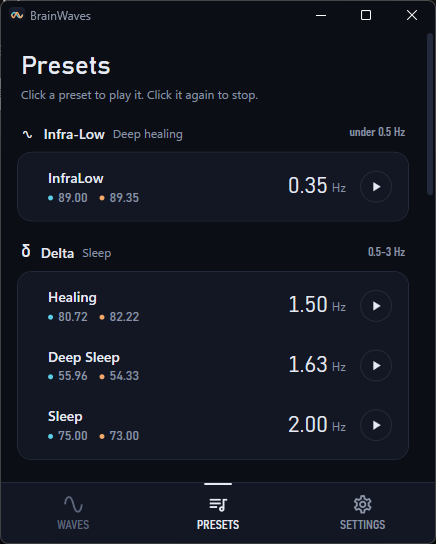
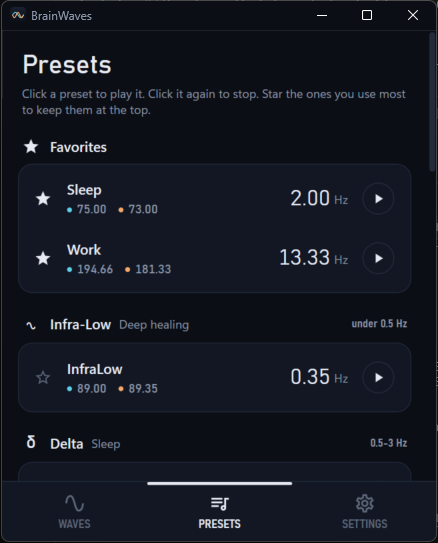
docs: README를 첫 화면에서 바로 읽히는 소개로 개편

diff --git a/README.md b/README.md
@@ -1,185 +1,86 @@
-# 🧠 BrainWaves - 모던 바이노럴 비트 생성기
+<h1 align="center">BrainWaves</h1>
 
 <p align="center">
-  <img src="Images/program_waves.png" width="300" alt="BrainWaves 메인 화면"/>
+  <b>왼쪽 귀에 75 Hz, 오른쪽 귀에 73 Hz를 들려주면 머릿속에서 1초에 두 번씩 커졌다 작아지는 소리가 들립니다.</b><br>
+  이 소리를 바이노럴 비트라고 합니다. BrainWaves는 바이노럴 비트를 들려주는 Windows 앱입니다.<br>
+  수면, 명상, 집중용 프리셋이 들어 있어 헤드폰을 쓰고 하나만 누르면 됩니다.
 </p>
 
 <p align="center">
-  <b>과학적으로 설계된 바이노럴 비트로 당신의 정신 상태를 변화시키세요</b>
+  <img src="Images/program_waves.png" width="320" alt="Waves 화면. 왼쪽 75 Hz와 오른쪽 73 Hz로 만든 2.00 Hz 델타 대역 비트">
 </p>
 
 <p align="center">
-  <a href="#주요-기능">주요 기능</a> •
-  <a href="#스크린샷">스크린샷</a> •
-  <a href="#설치-방법">설치 방법</a> •
-  <a href="#사용법">사용법</a> •
-  <a href="#프리셋">프리셋</a> •
-  <a href="#기술-스택">기술 스택</a>
+  <a href="https://github.com/siakun/BrainWavesWPF/releases/latest"><img src="https://img.shields.io/github/v/release/siakun/BrainWavesWPF?style=for-the-badge&label=Windows%EC%9A%A9%20%EB%82%B4%EB%A0%A4%EB%B0%9B%EA%B8%B0&color=5ccfe6" alt="Windows용 내려받기"></a>
 </p>
 
----
+## 시작하기
 
-## 🌟 개요
+1. [최신 릴리스](https://github.com/siakun/BrainWavesWPF/releases/latest)에서 `BrainWaves-Setup-<버전>-x64.exe`를 받아 실행합니다. 설치가 끝나면 시작 메뉴에 등록됩니다.
+2. 헤드폰이나 이어폰을 씁니다. 두 귀에 서로 다른 소리가 따로 들어가야 바이노럴 비트가 생기므로 스피커로는 들을 수 없습니다.
+3. Presets 탭에서 프리셋을 누릅니다. 다시 누르면 멈춥니다.
 
-BrainWaves는 다양한 정신 상태를 달성하는 데 도움을 주는 바이노럴 비트를 생성하는 모던한 Windows 데스크톱 애플리케이션입니다. 각 귀에 약간 다른 주파수를 재생하여 뇌파 패턴에 영향을 줄 수 있는 청각적 착각을 만들어냅니다.
+## 할 수 있는 것
 
-## ✨ 주요 기능
+- **대역별 프리셋**
 
-### 🎵 **정밀한 주파수 제어**
-- 좌우 채널 독립적인 주파수 조절 (0.01Hz 정밀도, 버튼을 누르고 있으면 계속 조절)
-- 실시간 스테레오 사인파 생성
-- 각 채널별 개별 볼륨 조절과 전체 음량 조절. 재생 중에 바꿔도 바로 들리고, 전체 음량은 앱을 다시 켜도 유지됩니다
+  Deep Sleep부터 Meditation, Focus, Cognitive tasks까지 프리셋이 뇌파 대역(δ, θ, α, β, γ)별로 묶여 있습니다. 자주 듣는 프리셋은 별을 눌러 목록 맨 위 Favorites에 모아 둡니다.
 
-### 🧘 **13가지 과학적으로 설계된 프리셋**
-- **수면 & 휴식**: 깊은 휴식을 위한 델타파와 세타파
-- **집중 & 생산성**: 향상된 집중력을 위한 베타파
-- **창의성 & 학습**: 창의적 사고를 위한 알파파
-- **최고 성능**: 인지 능력 향상을 위한 감마파
-- 별표를 누른 프리셋은 목록 맨 위 **Favorites**에 모아 보여 주고, 앱을 다시 켜도 유지됩니다
+- **직접 맞추기**
 
-### 🎨 **밤에 켜 두기 편한 화면**
-- 어둡고 차분한 테마, 제목 표시줄까지 같은 색
-- 왼쪽 채널은 청록, 오른쪽 채널은 호박색으로 화면 전체에서 같은 색으로 표시
-- 뇌파 대역을 그리스 문자(δ, θ, α, β, γ)로 표시하고 프리셋을 대역별로 묶음
-- 재생 중에는 두 채널의 파형이 서로 다른 속도로 흐름 (Windows에서 애니메이션을 끄면 멈춤)
+  Waves 탭에서 왼쪽과 오른쪽 주파수를 0.01 Hz 단위로, 채널 음량과 전체 음량을 따로 맞춥니다. 재생 중에 바꿔도 바로 들립니다. 맞춘 비트가 어느 대역인지는 화면 위쪽에 보입니다. 전체 음량은 다음에 켤 때도 그대로입니다.
 
-### 🔄 **자동 업데이트**
-- 새 버전을 백그라운드에서 받아 두고 앱을 닫을 때 설치
-- 원하는 버전을 골라 설치하거나 이전 버전으로 되돌리기
-- 베타 버전 수신 선택
+- **알아서 하는 업데이트**
 
-## 📸 스크린샷
+  새 버전이 나오면 사용하는 동안 받아 두었다가 앱을 닫을 때 설치합니다. 문제가 생긴 버전은 Settings 탭에서 이전 버전으로 되돌릴 수 있습니다.
+
+- **밤에 켜 두기 편한 화면**
+
+  밝은 면이 눈에 띄지 않도록 제목 표시줄까지 어두운 색으로 맞췄습니다. 왼쪽 채널은 어디서나 청록색, 오른쪽 채널은 주황색으로 표시합니다. 재생하는 동안에는 두 채널의 파형이 서로 다른 속도로 흐릅니다.
+
+## 화면
 
 <table>
   <tr>
     <td align="center">
-      <img src="Images/program_waves.png" width="250"/><br>
-      <b>웨이브 컨트롤</b><br>
-      <sub>수동으로 주파수 미세 조정</sub>
+      <img src="Images/program_presets.png" width="300" alt="Presets 화면"><br>
+      대역별로 묶은 프리셋과 맨 위의 Favorites
     </td>
     <td align="center">
-      <img src="Images/program_presets.png" width="250"/><br>
-      <b>프리셋 라이브러리</b><br>
-      <sub>최적화된 설정에 빠르게 접근</sub>
-    </td>
-    <td align="center">
-      <img src="Images/program_settings.png" width="250"/><br>
-      <b>설정</b><br>
-      <sub>업데이트와 앱 정보</sub>
+      <img src="Images/program_settings.png" width="300" alt="Settings 화면"><br>
+      자동 업데이트와 버전 선택
     </td>
   </tr>
 </table>
 
-## 🧠 프리셋
+## 설치와 업데이트
 
-| 프리셋 | 파동 유형 | 주파수 (Hz) | 목적 |
-|--------|-----------|----------------|---------|
-| 🌙 **깊은 수면** | 델타 | 1.63 | 가장 깊은 수면 단계 |
-| 😴 **수면** | 델타 | 2.00 | 일반적인 수면 유도 |
-| 🧘 **명상** | 세타 | 4.50 | 깊은 명상 |
-| 🌊 **휴식** | 세타 | 4.56 | 스트레스 해소 |
-| 👁 **시각화** | 알파 | 8.67 | 정신적 이미지화 |
-| 🎯 **집중** | 베타 | 29.00 | 강렬한 집중력 |
-| 🎨 **창의성** | 베타 | 28.13 | 창의적 사고 |
-| 💡 **인지** | 감마 | 40.00 | 최고의 정신 성능 |
+- 설치하지 않고 사용하려면 `BrainWaves-Portable-<버전>-x64.zip`을 받아 압축을 풀고 `BrainWaves.exe`를 실행합니다. 포터블 판도 똑같이 스스로 업데이트합니다.
+- Windows 10 이상 64비트에서 돌아갑니다. 실행에 필요한 .NET 런타임이 들어 있어 따로 설치하지 않아도 됩니다.
+- Settings 탭에서 자동 업데이트를 끄거나 **Install another version**으로 원하는 버전을 골라 설치할 수 있습니다. 최신이 아닌 버전을 고르면 다시 최신으로 올라가지 않도록 자동 업데이트가 꺼집니다. 베타 버전까지 받으려면 **Beta versions**를 켭니다.
+- 0.1.x에는 업데이트 기능이 없습니다. 그 버전을 사용하고 있다면 한 번만 위 설치 파일을 새로 받아야 합니다.
 
-## 💻 시스템 요구사항
+## 주의
 
-- **OS**: Windows 10 이상 (64비트)
-- **런타임**: 설치 파일에 포함되어 있어 따로 설치하지 않아도 됩니다
-- **오디오**: 스테레오 헤드폰 또는 이어폰 (바이노럴 효과를 위해 필수)
-- **RAM**: 최소 4GB
-- **저장 공간**: 300MB 여유 공간
+- 의료 기기가 아닙니다. 바이노럴 비트를 듣고 느끼는 효과는 사람마다 다릅니다. 건강 문제는 의료 전문가와 상의해 주세요.
+- 뇌전증(간질)이나 발작을 겪은 적이 있다면 사용하면 안 됩니다.
+- 운전하거나 기계를 다루는 동안에는 사용하면 안 됩니다.
+- 음량은 낮게 시작해 편안한 만큼만 올려 주세요. 불편하면 바로 멈춰 주세요.
 
-## 🚀 설치 방법
+## 직접 빌드하기
 
-### 옵션 1: 릴리스 다운로드
-1. [Releases](https://github.com/siakun/BrainWavesWPF/releases) 페이지로 이동
-2. 최신 릴리스의 `BrainWaves-Setup-<버전>-x64.exe`를 받아 실행
-3. 설치가 끝나면 BrainWaves가 시작 메뉴에 등록되고, 이후 버전은 앱이 스스로 업데이트합니다
+.NET 8 SDK가 필요합니다.
 
-설치하지 않고 쓰려면 `BrainWaves-Portable-<버전>-x64.zip`을 받아 압축을 풀고 `BrainWaves.exe`를 실행합니다. 포터블 판도 자동 업데이트를 지원합니다.
-
-0.1.x 버전은 업데이트 기능이 없는 단일 실행 파일이라 새 버전으로 넘어가지 않습니다. 한 번만 위 방법으로 새로 받으면 그 뒤로는 자동으로 업데이트됩니다.
-
-### 옵션 2: 소스에서 빌드
 ```bash
-# 저장소 클론
 git clone https://github.com/siakun/BrainWavesWPF.git
 cd BrainWavesWPF
-
-# 프로젝트 빌드
-dotnet build
-
-# 애플리케이션 실행
 dotnet run --project BrainWaves/BrainWaves/BrainWaves.csproj
 ```
 
-## 📖 사용법
+## 라이선스와 문의
 
-### 시작하기
-1. **스테레오 헤드폰 착용** - 바이노럴 비트 효과에 필수
-2. **방법 선택**:
-   - **빠른 시작**: Presets 탭에서 프리셋 선택. 자주 쓰는 프리셋은 별표를 눌러 맨 위에 고정
-   - **사용자 정의**: Waves 탭에서 수동으로 주파수 조정
-3. Waves 탭 위쪽의 **재생 버튼**을 눌러 세션 시작
-4. 필요에 따라 게인 슬라이더로 **볼륨 조정**
+GNU Affero General Public License v3.0을 따릅니다. 전문은 [LICENSE](LICENSE)에 있습니다. 앱이 사용하는 오픈소스 라이브러리는 Settings 탭에서 볼 수 있습니다.
 
-### 업데이트
-- 자동 업데이트를 켜 두면 새 버전을 받아 두었다가 앱을 닫을 때 설치합니다. 창 아래에 알림이 뜨면 **Restart now**로 바로 설치할 수도 있습니다
-- Settings 탭의 **Install another version**에서 특정 버전을 골라 설치하거나 이전 버전으로 되돌릴 수 있습니다. 최신이 아닌 버전을 고르면 자동 업데이트가 꺼집니다
-- 베타 버전을 받으려면 Settings 탭에서 **Beta versions**를 켭니다
+버그나 제안은 [Issues](https://github.com/siakun/BrainWavesWPF/issues)에 남겨 주세요. Pull Request도 환영합니다.
 
-### 프로 팁
-- 🎧 최상의 결과를 위해 좋은 품질의 헤드폰 사용
-- ⏱ 일반적으로 15-30분 세션이 가장 효과적
-- 🌙 수면을 위해서는 잠들기 30분 전부터 재생
-- 🎯 집중을 위해서는 작업이나 공부 중에 사용
-
-## ⚠ 안전 주의사항
-
-- **운전 중 사용 금지** 또는 기계 조작 시
-- **간질이나 발작 장애가 있는 경우 사용 금지**
-- 불편함을 느끼면 **사용 중단**
-- **의료 기기가 아님** - 의학적 상태에 대해서는 의료 전문가와 상담
-
-## 🛠 기술 스택
-
-- **프레임워크**: WPF with .NET 8.0
-- **아키텍처**: MVVM 패턴
-- **UI 라이브러리**: MaterialDesignThemes (5.2.2)
-- **MVVM 프레임워크**: CommunityToolkit.Mvvm (8.4.0)
-- **오디오**: NAudio로 좌우 채널 사인파를 실시간 생성
-- **배포와 업데이트**: Velopack 설치 패키지, [Siakun.AutoUpdate](https://github.com/siakun/Siakun.AutoUpdate)
-
-## 🤝 기여하기
-
-기여를 환영합니다! Pull Request를 자유롭게 제출해 주세요.
-
-1. 저장소 포크
-2. 기능 브랜치 생성 (`git checkout -b feature/AmazingFeature`)
-3. 변경사항 커밋 (`git commit -m 'Add some AmazingFeature'`)
-4. 브랜치에 푸시 (`git push origin feature/AmazingFeature`)
-5. Pull Request 열기
-
-## 📜 라이선스
-
-이 프로젝트는 GNU Affero General Public License v3.0을 따릅니다 - 자세한 내용은 [LICENSE](LICENSE) 파일을 참조하세요.
-
-## 🙏 감사의 말
-
-- Google의 Material Design Icons
-- 다양한 과학 출판물의 바이노럴 비트 주파수 연구
-- 놀라운 라이브러리를 제공한 오픈소스 커뮤니티
-
----
-
-<p align="center">
-  <a href="https://github.com/Sia819">Sia819</a>가 ❤를 담아 만들었습니다
-</p>
-
-<p align="center">
-  <a href="https://github.com/siakun/BrainWavesWPF/issues">버그 신고</a> •
-  <a href="https://github.com/siakun/BrainWavesWPF/issues">기능 요청</a>
-</p>
-```
+만든 사람: [siakun](https://github.com/siakun)
